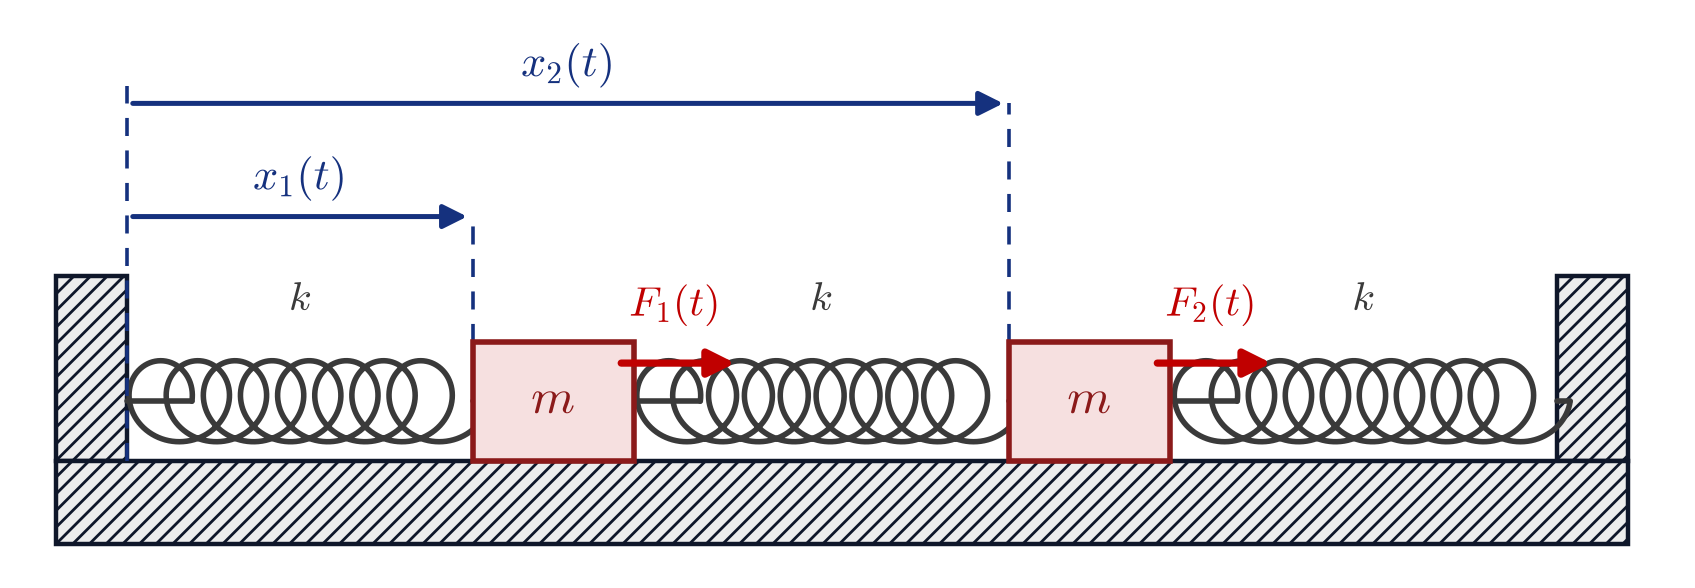
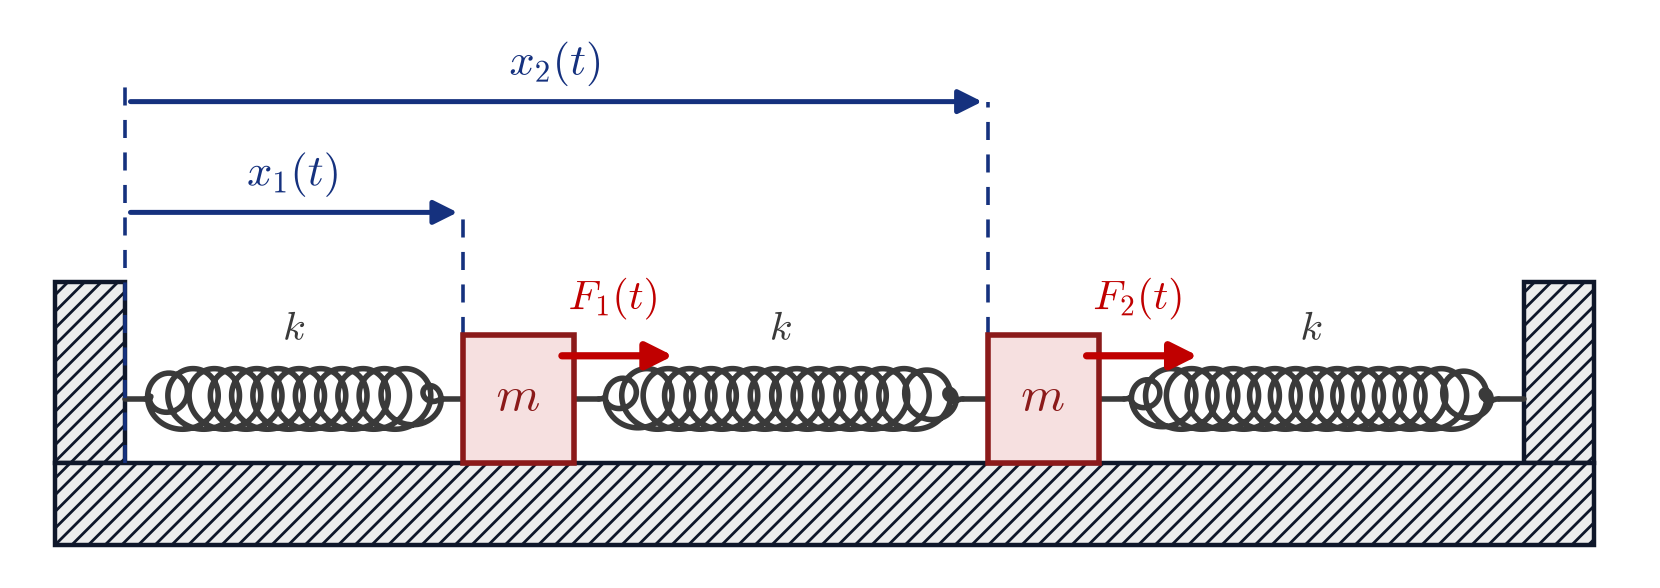
Polish schematic springs and trajectory layout (figures review r2)
- Draw springs as uniform tightly-wound coils via a flat-top (Tukey)
  envelope: uniform amplitude in the middle, short taper to the axis at each
  end - removes the stray hook and the spindle shape; denser pitch
- Upright mass boxes and lower k labels to match the original proportions
- Drop the crowding per-axes title in the trajectory overlay (the suptitle
  already states the result)

Claude-Session: https://claude.ai/code/session_013KvuS9HKbnZAwwFJyBkyHc

diff --git a/tools/generate_readme_figures.py b/tools/generate_readme_figures.py
@@ -81,24 +81,35 @@ def _style() -> None:
 # --------------------------------------------------------------------------- #
 # Figure 1 — masses-and-springs system schematic (faithful to the TikZ original)
 # --------------------------------------------------------------------------- #
-def _coil(ax, x0: float, x1: float, y: float, *, radius: float = 0.34, coils_per_unit: float = 3.2) -> None:
+def _coil(ax, x0: float, x1: float, y: float, *, radius: float = 0.26, coils_per_unit: float = 5.5) -> None:
     """Draw a continuous, tightly-wound helical coil spring between ``(x0, y)`` and ``(x1, y)``.
 
     The coil is a single parametric polyline: an axial advance plus a circular
     ``(cos, sin)`` component so consecutive turns overlap into visible loops
-    (a slinky-like helix), rather than a chain of separate rings. ``coils_per_unit``
-    is shared across springs so every spring has the same pitch.
+    (a slinky-like helix). A ``sin`` envelope tapers the radius to zero at both
+    ends, so the helix lands exactly on the axis at ``(xa, y)`` / ``(xb, y)`` —
+    no doubling-back lead, no stray hook. ``coils_per_unit`` is shared across
+    springs so every spring has the same pitch.
     """
-    lead = 0.07 * (x1 - x0)
+    lead = 0.06 * (x1 - x0)
     xa, xb = x0 + lead, x1 - lead
     span = xb - xa
-    n = max(7, int(round(span * coils_per_unit)))
-    theta = np.linspace(0.0, 2.0 * np.pi * n, n * 80)
-    cx = xa + span * (theta / (2.0 * np.pi * n)) + radius * np.cos(theta)
-    cy = y + radius * np.sin(theta)
-    # straight leads from the attachment points to the first/last coil points
-    ax.plot([x0, cx[0]], [y, cy[0]], color=STRUCT, lw=2.0, solid_capstyle="round", zorder=2)
-    ax.plot([cx[-1], x1], [cy[-1], y], color=STRUCT, lw=2.0, solid_capstyle="round", zorder=2)
+    n = max(11, int(round(span * coils_per_unit)))
+    theta = np.linspace(0.0, 2.0 * np.pi * n, n * 100)
+    # Flat-top (Tukey) envelope: uniform coil amplitude across the middle, with a
+    # short cosine taper to zero over the last ~12% at each end so the helix lands
+    # cleanly on the axis (no spindle shape, no stray hook).
+    t_norm = theta / (2.0 * np.pi * n)
+    alpha = 0.12
+    env = np.ones_like(theta)
+    left, right = t_norm < alpha, t_norm > 1.0 - alpha
+    env[left] = 0.5 * (1.0 - np.cos(np.pi * t_norm[left] / alpha))
+    env[right] = 0.5 * (1.0 - np.cos(np.pi * (1.0 - t_norm[right]) / alpha))
+    cx = xa + span * t_norm + radius * env * np.cos(theta)
+    cy = y + radius * env * np.sin(theta)
+    # short straight leads from the attachment points onto the (on-axis) coil ends
+    ax.plot([x0, xa], [y, y], color=STRUCT, lw=2.0, solid_capstyle="round", zorder=2)
+    ax.plot([xb, x1], [y, y], color=STRUCT, lw=2.0, solid_capstyle="round", zorder=2)
     ax.plot(cx, cy, color=STRUCT, lw=2.0, solid_capstyle="round", solid_joinstyle="round", zorder=2)
 
 
@@ -123,7 +134,7 @@ def figure_schematic() -> None:
     fig, ax = plt.subplots(figsize=(11.0, 3.1))
 
     floor_top = 0.0
-    mh, mw = 1.0, 1.35  # mass height / width
+    mh, mw = 1.1, 0.95  # mass height / width (upright boxes, as in the original)
     y_c = floor_top + mh / 2  # spring + mass centreline
     wall_h = 1.55
     xw_l, xw_r = 1.0, 13.0  # wall inner faces
@@ -142,9 +153,9 @@ def figure_schematic() -> None:
     _coil(ax, m1_l + mw, m2_l, y_c)
     _coil(ax, m2_l + mw, xw_r, y_c)
 
-    # spring stiffness labels
+    # spring stiffness labels, just above the coils
     for sx in ((xw_l + m1_l) / 2, (m1_l + mw + m2_l) / 2, (m2_l + mw + xw_r) / 2):
-        ax.text(sx, floor_top + mh + 0.18, r"$k$", ha="center", va="bottom", color=STRUCT, fontsize=15)
+        ax.text(sx, y_c + 0.42, r"$k$", ha="center", va="bottom", color=STRUCT, fontsize=15)
 
     for ml, label in masses:
         ax.add_patch(
@@ -239,7 +250,6 @@ def figure_trajectories(lqr_game, game, lqr_cost, game_cost, x_T) -> None:
     ax.plot(t, game.x[:, 1], color=RED, lw=1.7, ls=(0, (5, 3)))
     for tgt, col in ((x_T[0], BLUE), (x_T[1], RED)):
         ax.axhline(tgt, color=col, ls=(0, (1, 3)), lw=1.0, alpha=0.55)
-    ax.set_title("Modal game reproduces the monolithic LQR", color=INK)
     ax.set_xlabel(r"time  $t$  $[\mathrm{s}]$")
     ax.set_ylabel("mass position")
     ax.set_xlim(t[0], t[-1])